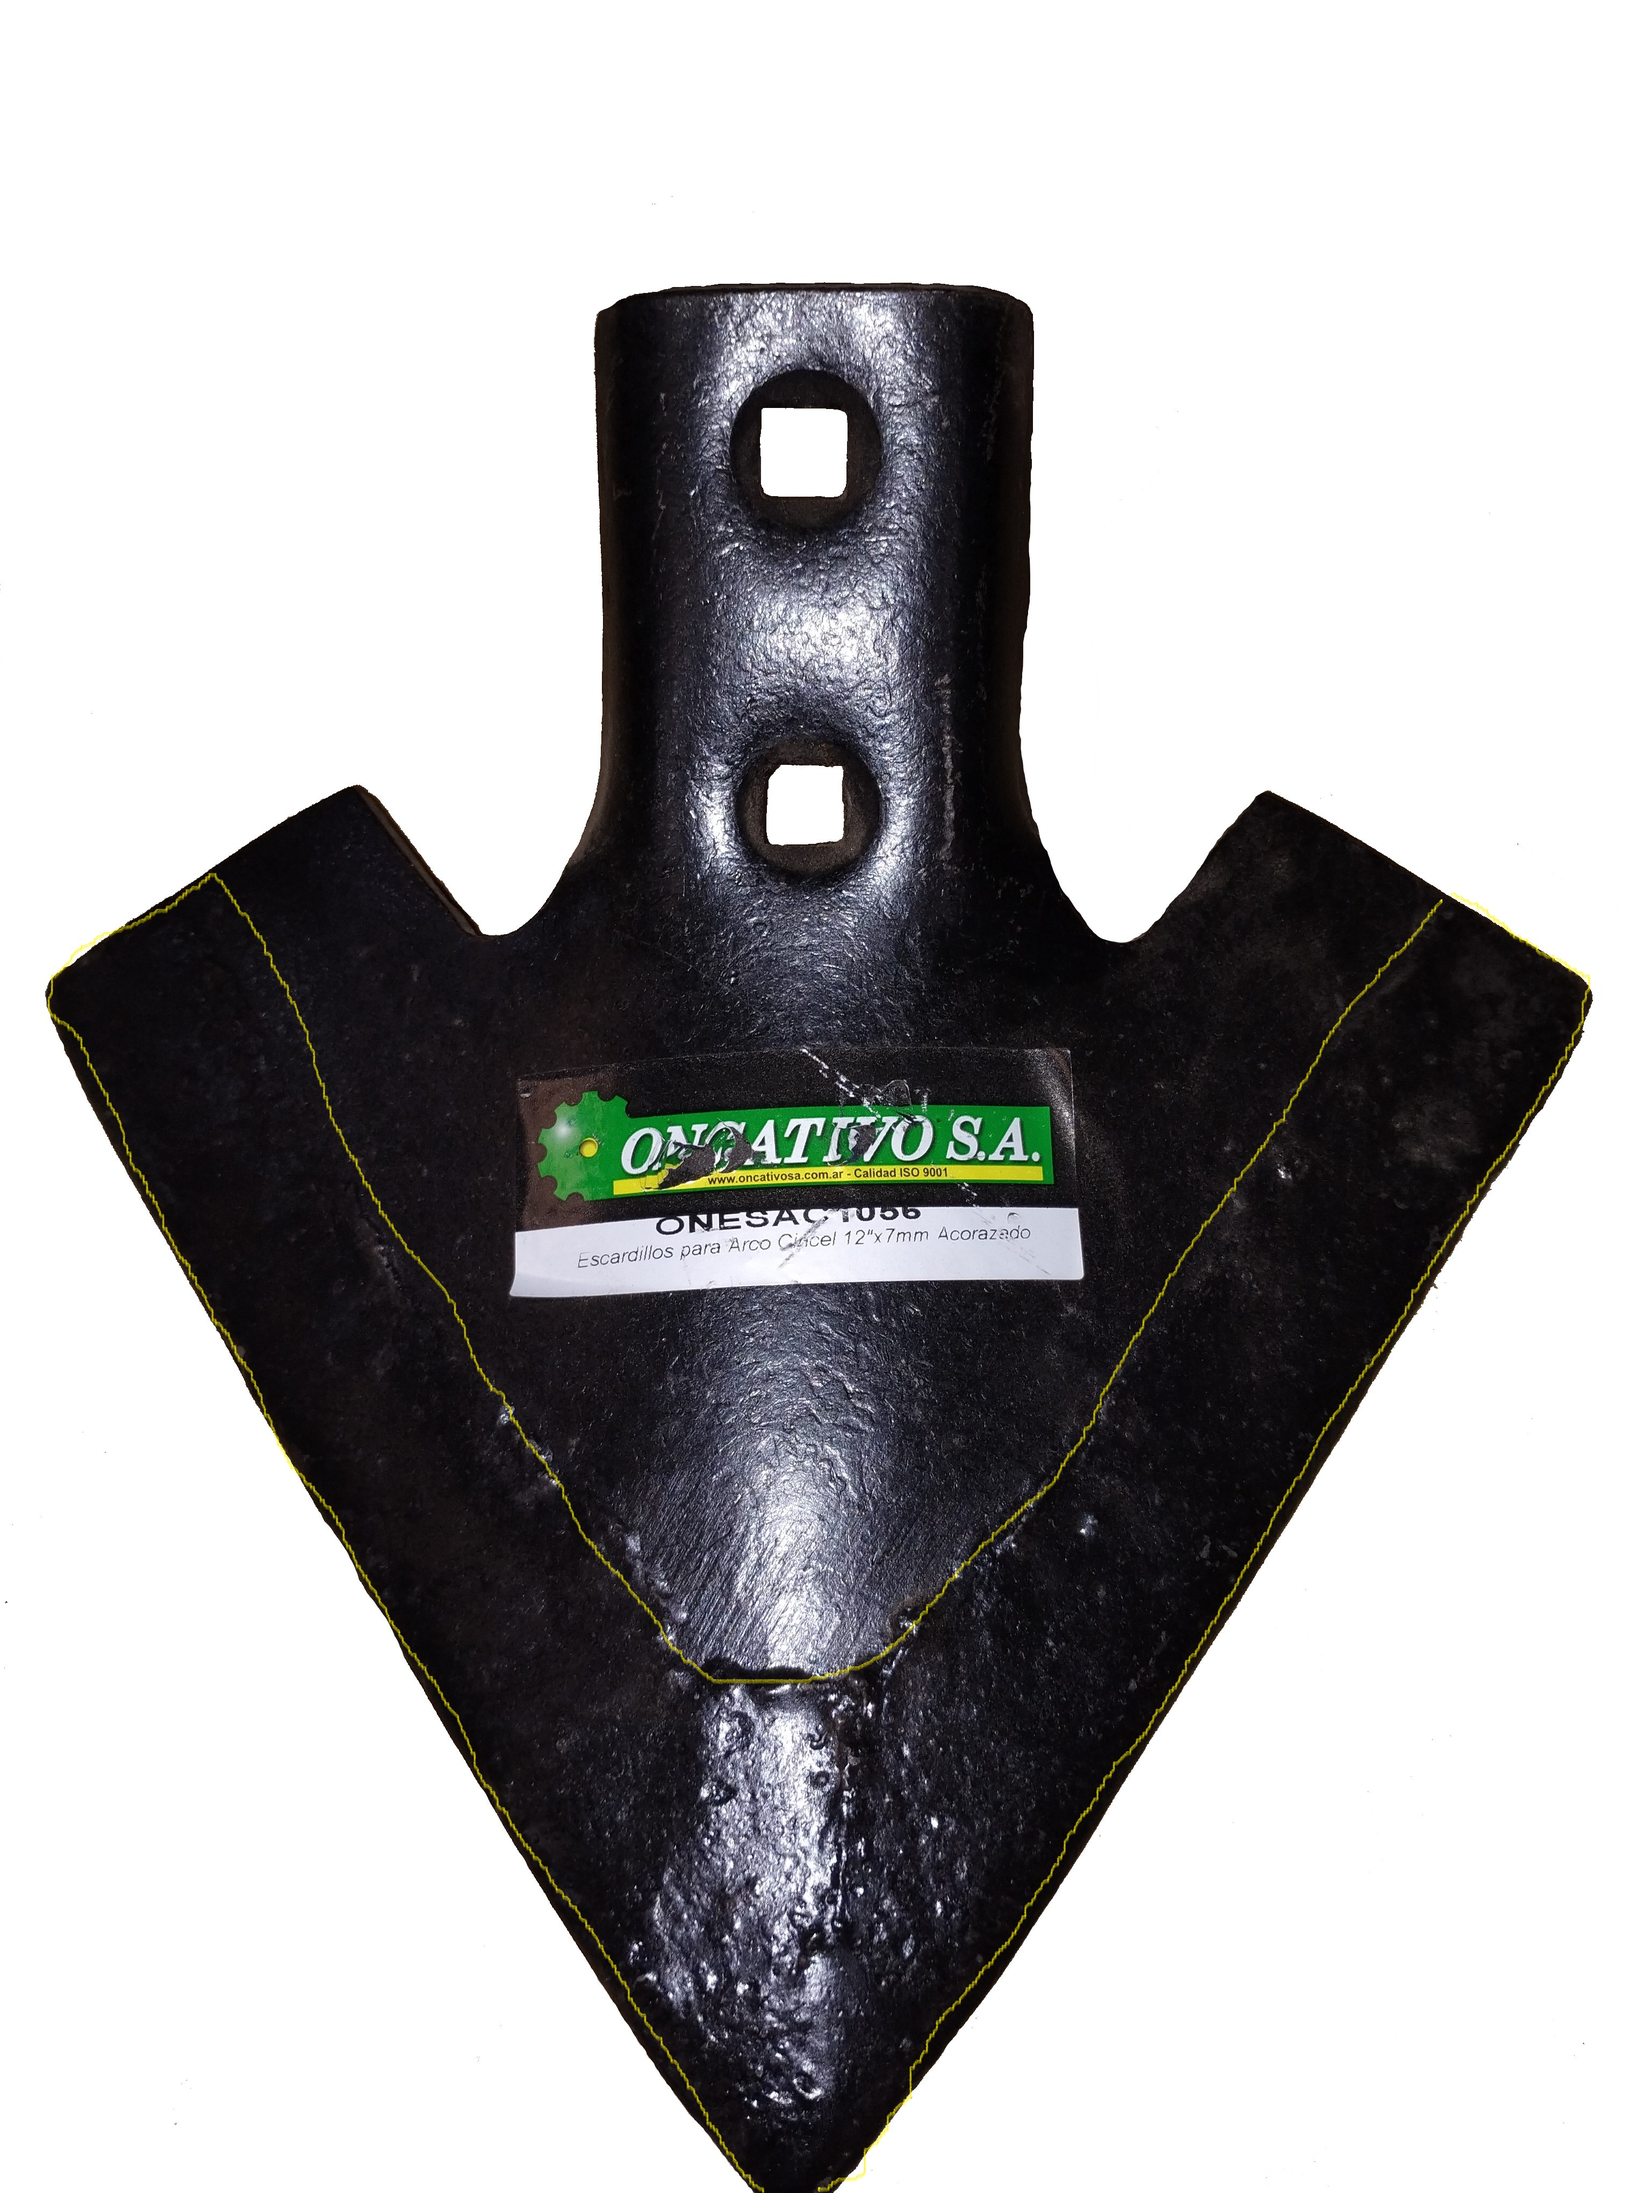
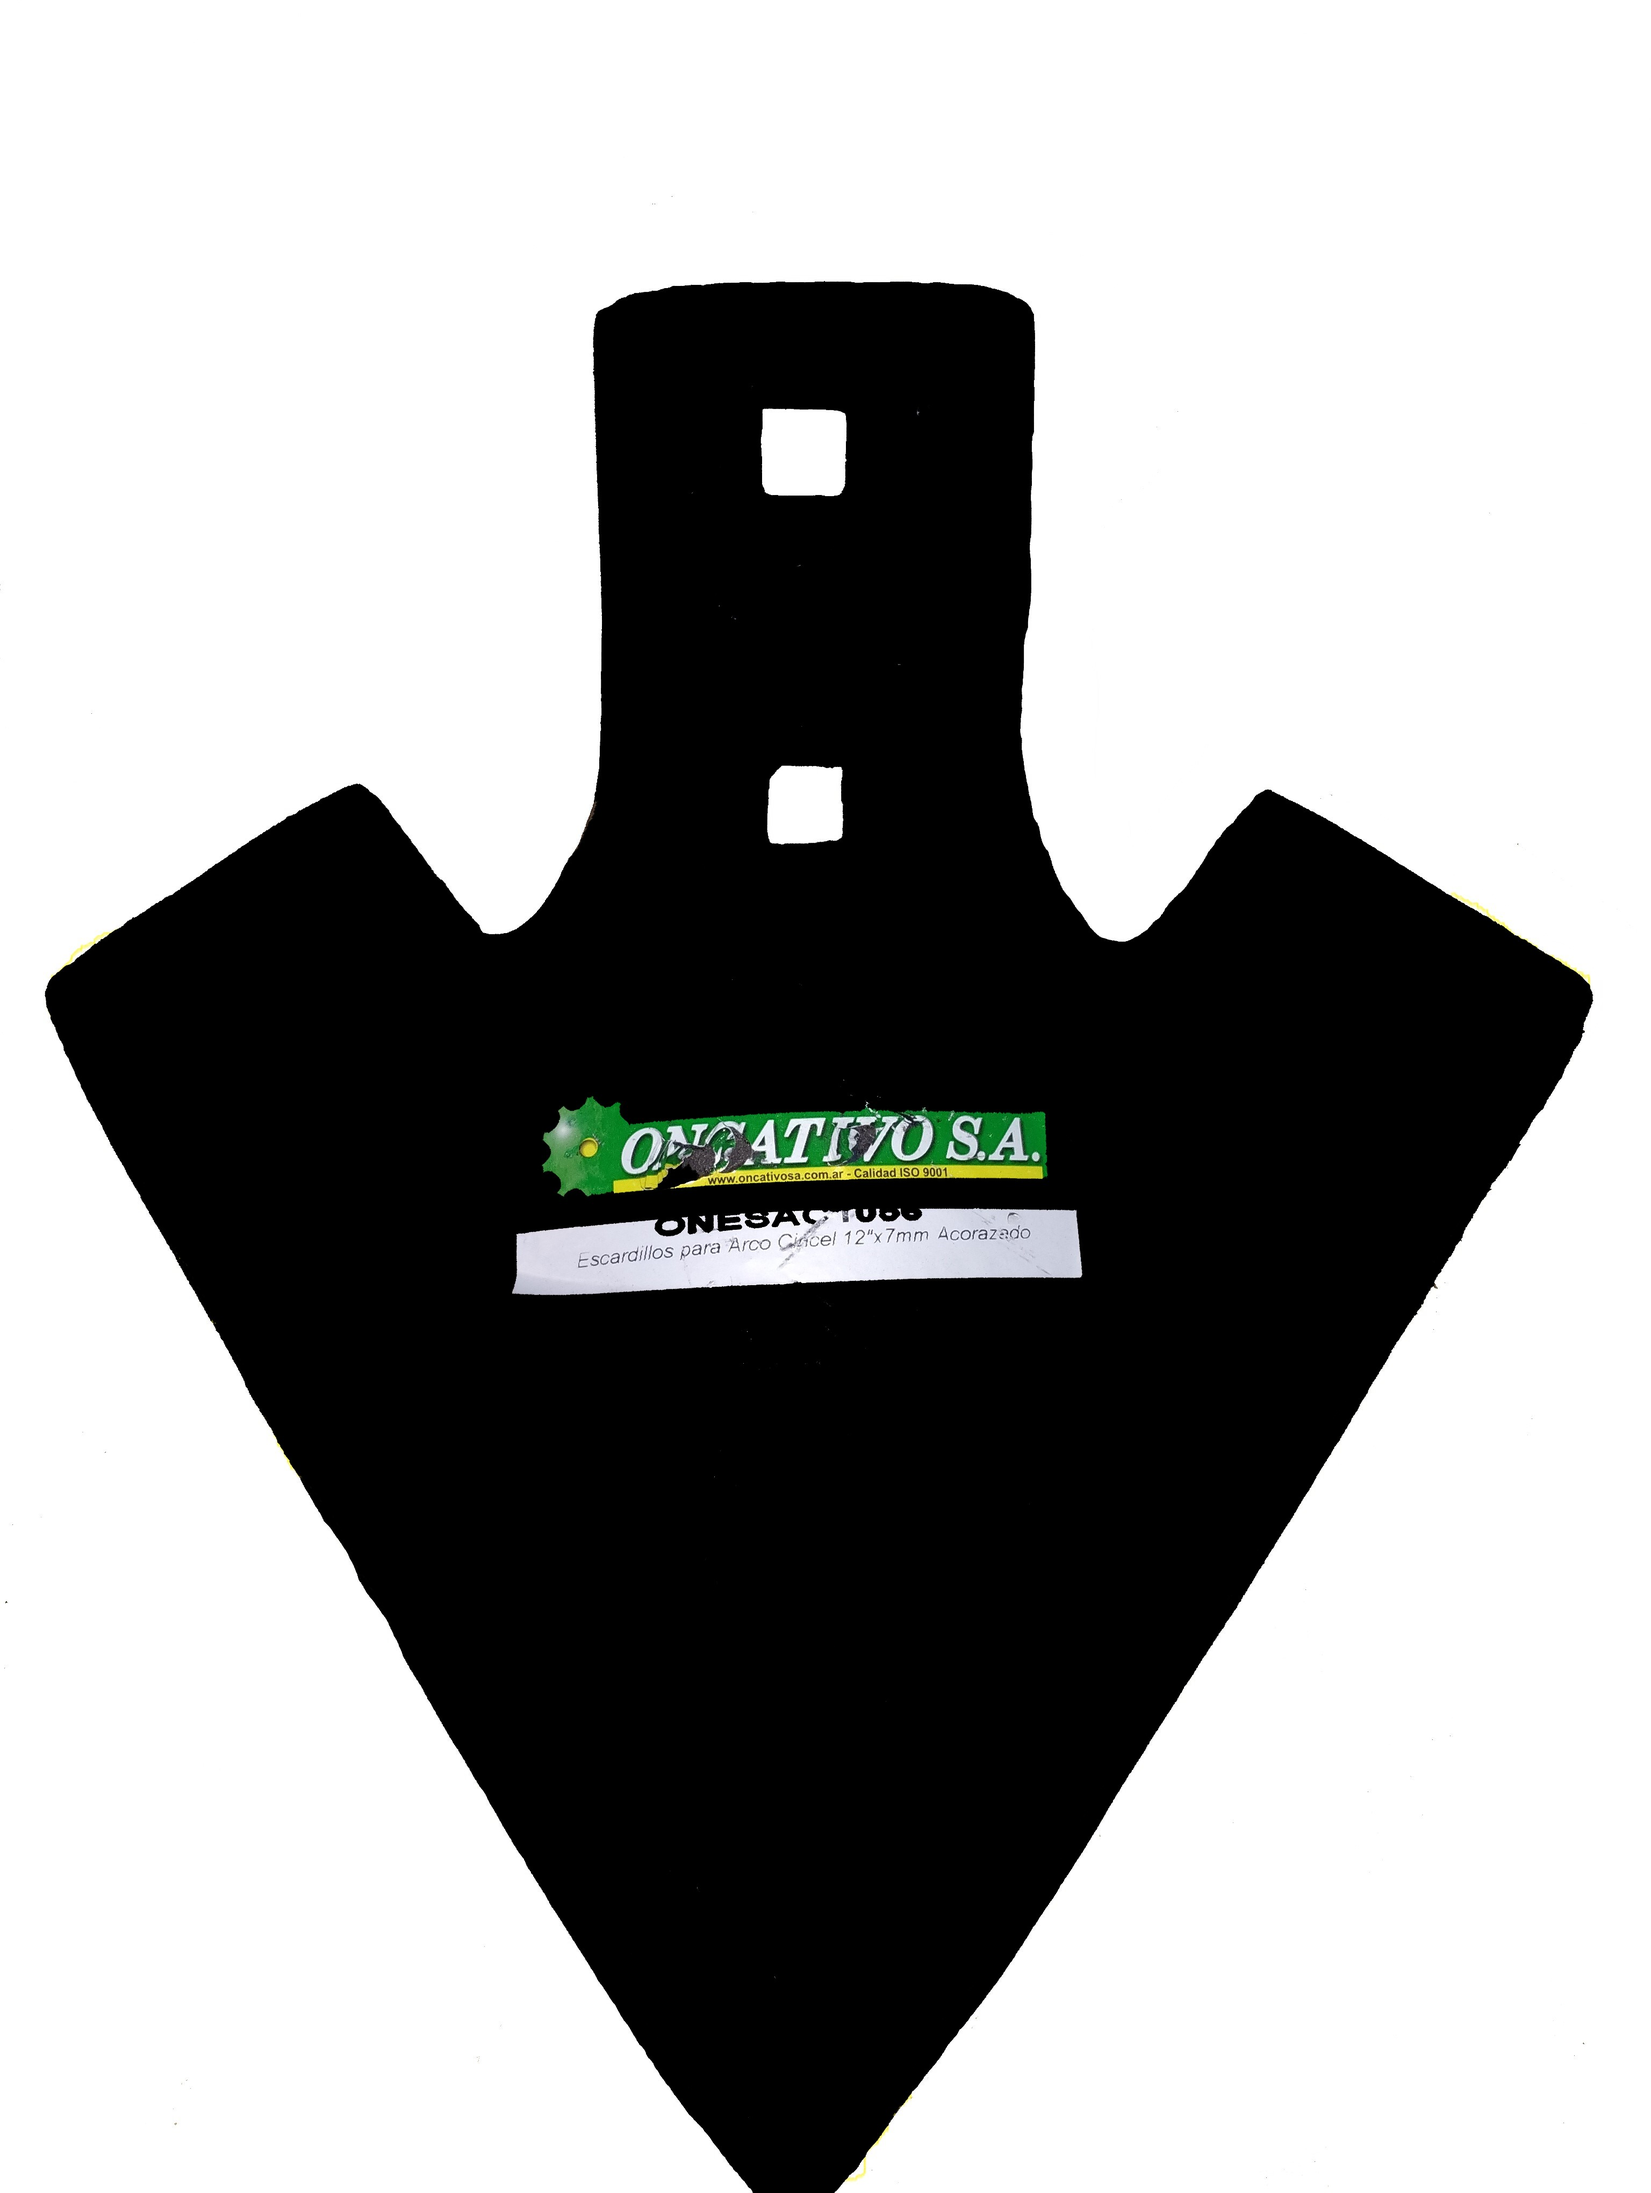
Se modifico las imagenes de servicios q ofrecemos acorazado, para git y hostinger PCEMO

diff --git a/service.html b/service.html
@@ -170,7 +170,7 @@
                                     impregna modificando su composición,el proceso que utilizamos es de soldaduras con
                                     soplete de alta definición realizada con varillas tubulares de acero, que le brinda
                                     mayor vida útil y resistencia al producto.</p>
-                                <a class="btn btn-square rounded-circle" href="img/02. NO REDONDOS/Acorazado/ES1056.jpg"
+                                <a class="btn btn-square rounded-circle" href="img/02. NO REDONDOS/Acorazado/ONES1056 Escardillos para Arco Cincel 12x7mm.png"
                                     class="img-fluid" data-wow-delay="0.1s" data-lightbox="xxx" target="_blank"><i
                                         class="bi bi-chevron-double-right"></i></a>
                         </div>
@@ -190,7 +190,7 @@
                                 impregna modificando su composición,el proceso que utilizamos es de soldaduras con
                                 soplete de alta definición realizada con varillas tubulares de acero, que le brinda
                                 mayor vida útil y resistencia al producto.</p>
-                            <a class="btn btn-square rounded-circle" href="img/02. NO REDONDOS/Acorazado/PU6501.jpg"
+                            <a class="btn btn-square rounded-circle" href="img/02. NO REDONDOS/Acorazado/PU6501.png"
                                 class="img-fluid" data-wow-delay="0.1s" data-lightbox="xxx" target="_blank"><i
                                     class="bi bi-chevron-double-right"></i></a>
                         </div>
@@ -211,7 +211,7 @@
                                 soplete de alta definición realizada con varillas tubulares de acero, que le brinda
                                 mayor vida útil y resistencia al producto.</p>
                             <a class="btn btn-square rounded-circle"
-                                href="img/02. NO REDONDOS/Acorazado/ONR109 Rejas 1018 AC.jpg" class="img-fluid"
+                                href="img/02. NO REDONDOS/Acorazado/REJAS 322.png" class="img-fluid"
                                 data-wow-delay="0.1s" data-lightbox="xxx" target="_blank"><i
                                     class="bi bi-chevron-double-right"></i></a>
                         </div>
